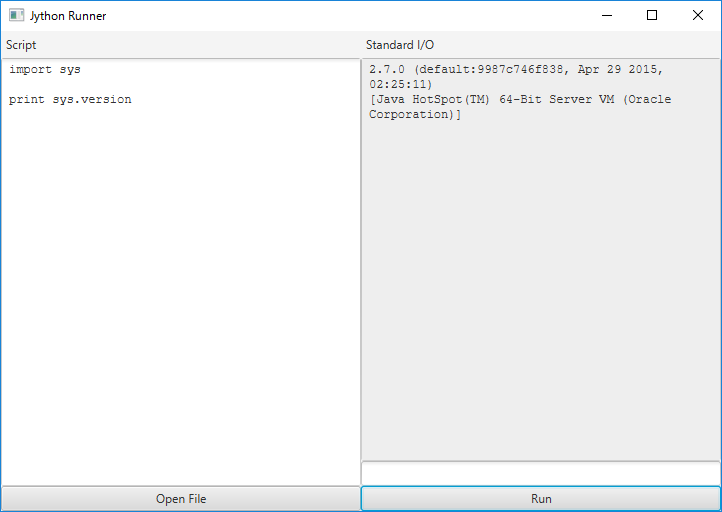
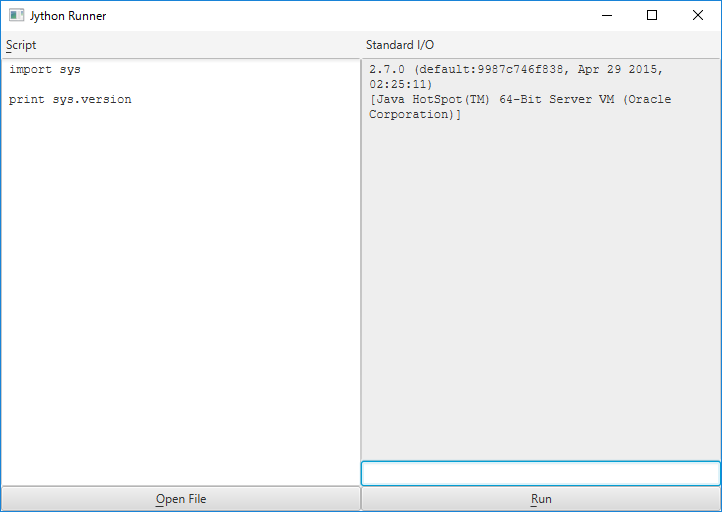
refactoring

Changed region(s): [[0.4875, 0.875, 1.0, 1.0]]

diff --git a/src/application/MainWindowController.java b/src/application/MainWindowController.java
@@ -4,6 +4,7 @@ import java.io.File;
 import java.io.IOException;
 import java.io.PipedReader;
 import java.io.PipedWriter;
+import java.io.UnsupportedEncodingException;
 import java.io.Writer;
 import java.nio.file.Files;
 
@@ -86,9 +87,9 @@ public class MainWindowController {
     public void handleStdin() throws IOException {
         String line = textFieldStdin.getText() + "\n";
         if (stdinWriter != null) {
-            stdinWriter.write(new String(line.getBytes("UTF-8"), "ISO-8859-1"));
+            stdinWriter.write(convertCharset(line, "UTF-8", "ISO-8859-1"));
+            textFieldStdin.clear();
         }
-        textFieldStdin.clear();
     }
 
     public void handleRun() {
@@ -106,6 +107,10 @@ public class MainWindowController {
         String script = new String(Files.readAllBytes(file.toPath()), "UTF-8");
         textAreaScript.setText(script);
     }
+    
+    private String convertCharset(String s, String from, String to) throws UnsupportedEncodingException {
+        return new String(s.getBytes(from), to);
+    }
 
     private class ExecuteScriptTask extends Task<Void> {
         private String script;
@@ -115,10 +120,10 @@ public class MainWindowController {
         }
         
         private class MessageWriter extends Writer {
-            private StringBuffer sb;
+            private StringBuilder sb;
 
             MessageWriter() {
-                this.sb = new StringBuffer();
+                this.sb = new StringBuilder();
             }
 
             @Override
@@ -128,7 +133,7 @@ public class MainWindowController {
 
             @Override
             public void flush() throws IOException {
-                updateMessage(new String(sb.toString().getBytes("ISO-8859-1"), "UTF-8"));
+                updateMessage(convertCharset(sb.toString(), "ISO-8859-1", "UTF-8"));
             }
 
             @Override
@@ -146,11 +151,11 @@ public class MainWindowController {
         }
 
         private void executeScript() throws IOException {
-            Writer stdoutWriter = new MessageWriter();
             ScriptEngine engine = new ScriptEngineManager().getEngineByName("python");
             ScriptContext context = engine.getContext();
 
             stdinWriter = new PipedWriter();
+            Writer stdoutWriter = new MessageWriter();
             context.setReader(new PipedReader(stdinWriter));
             context.setWriter(stdoutWriter);
             context.setErrorWriter(stdoutWriter);
